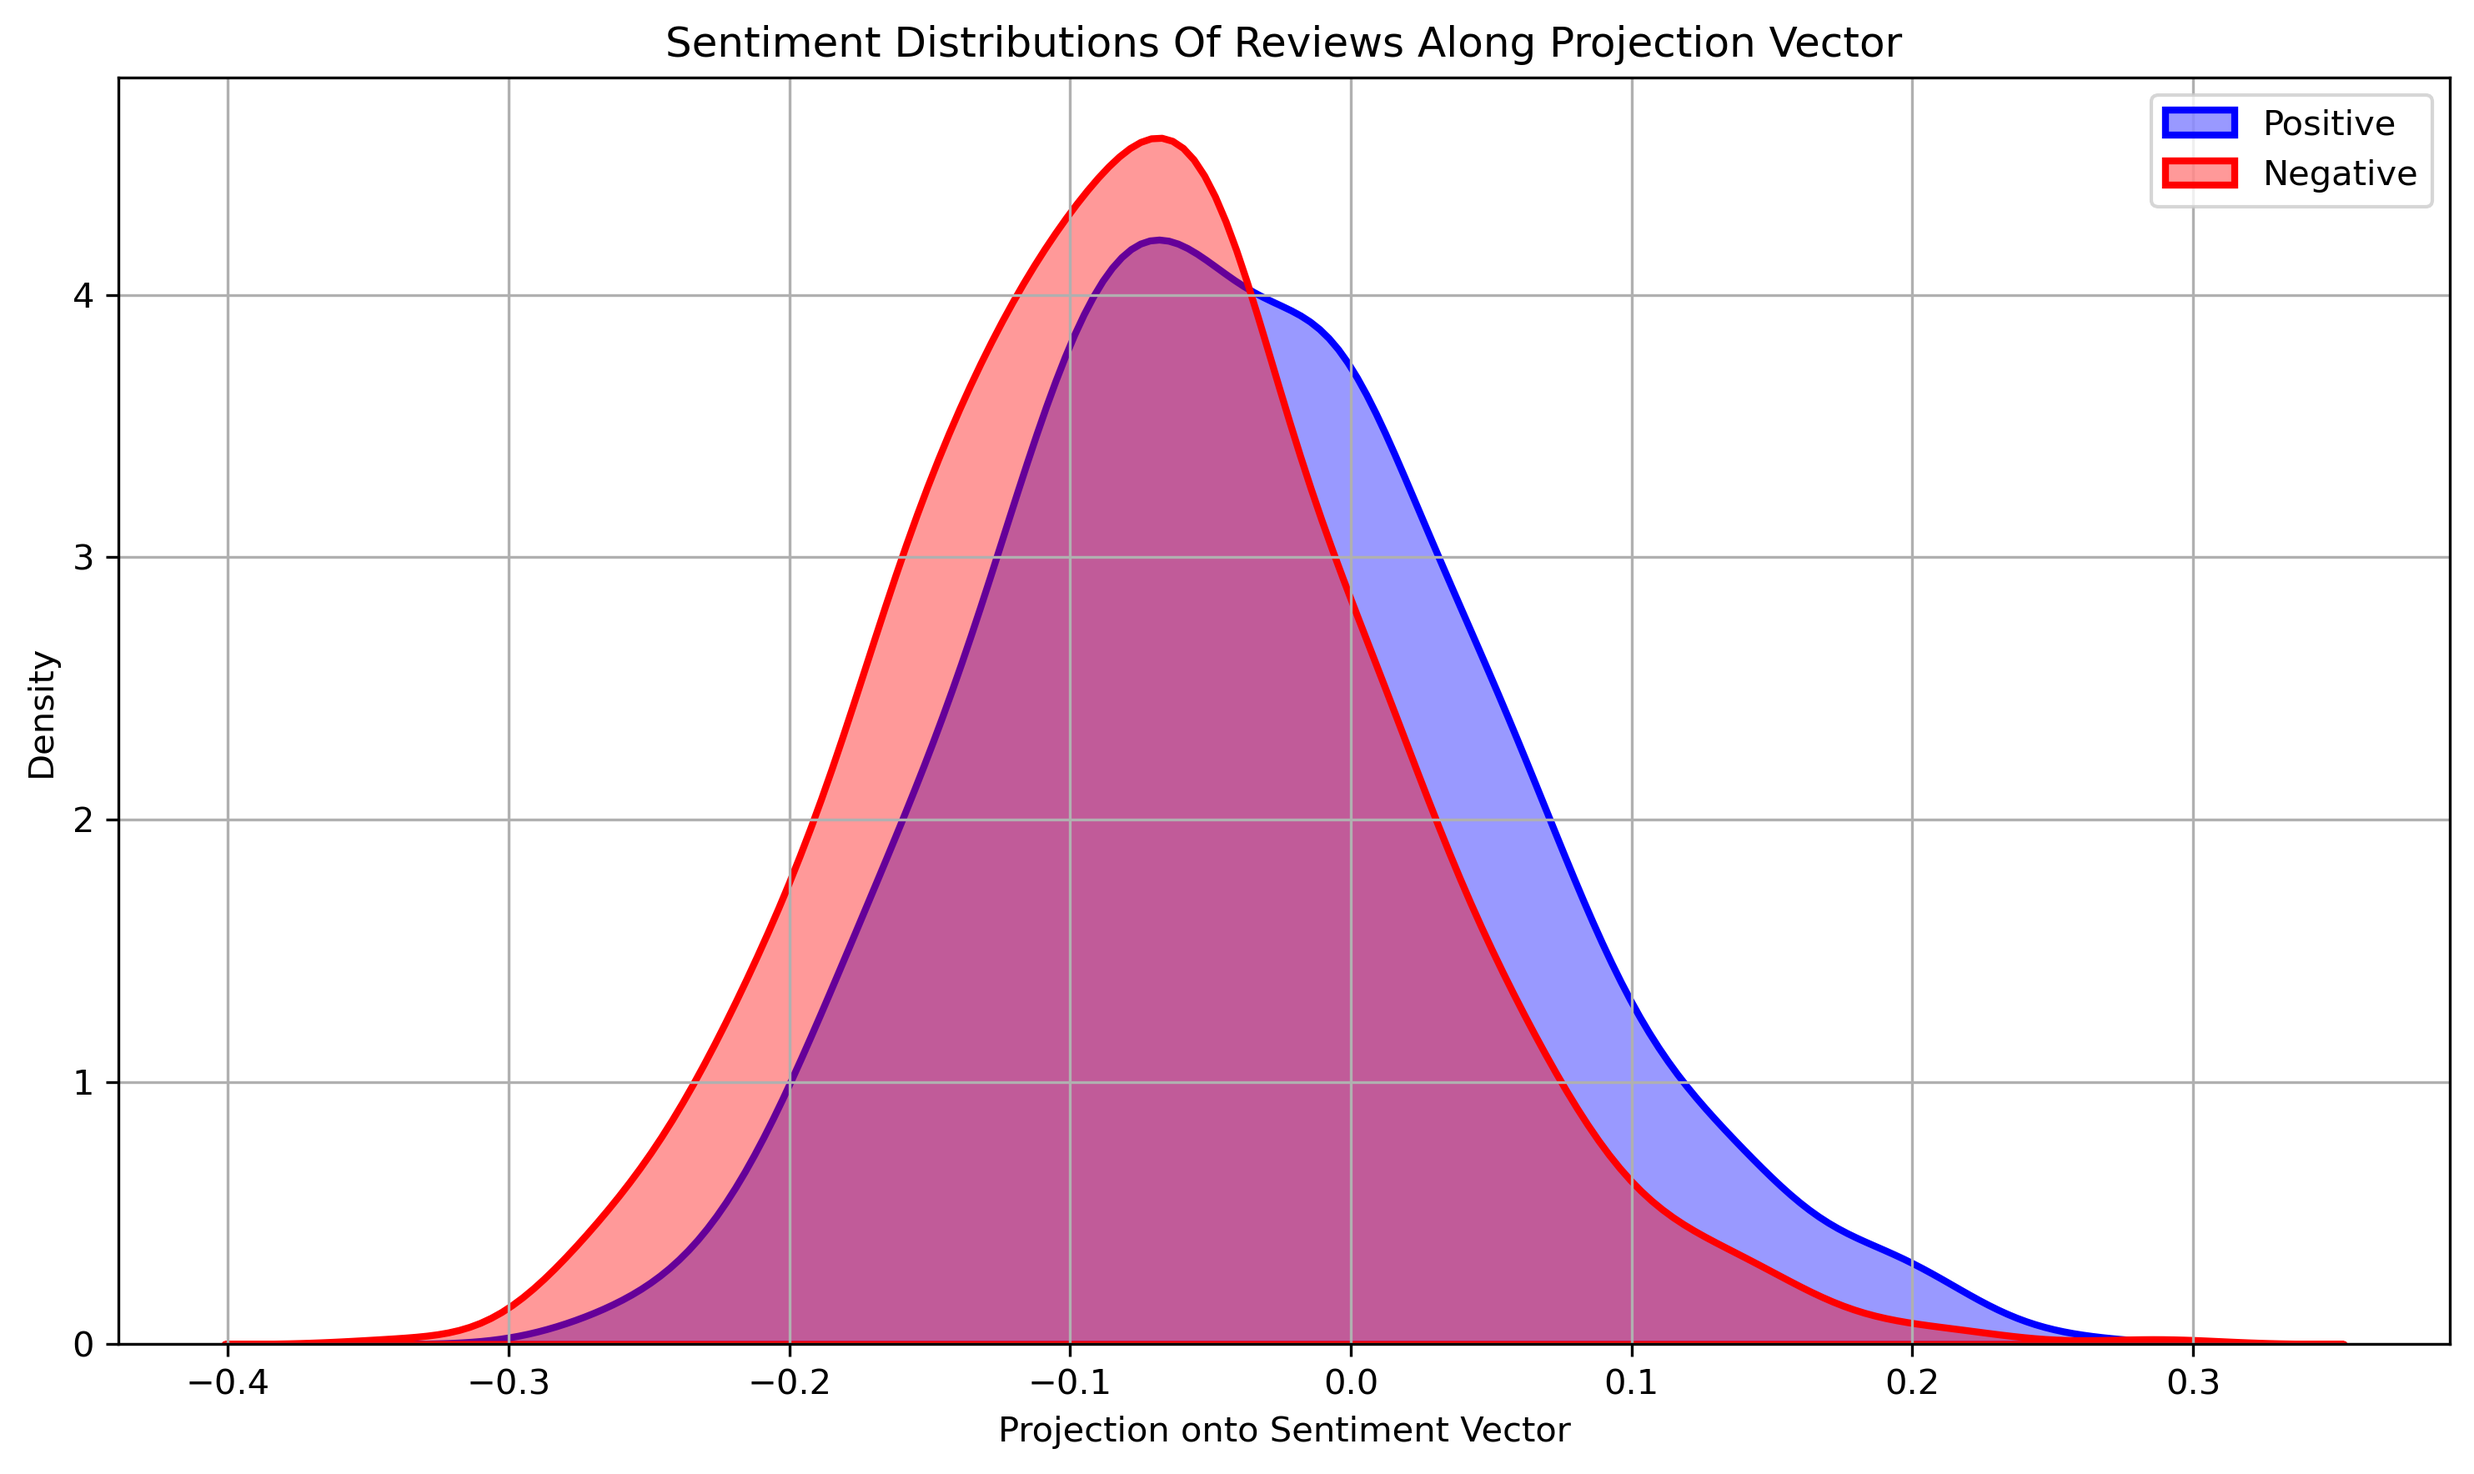
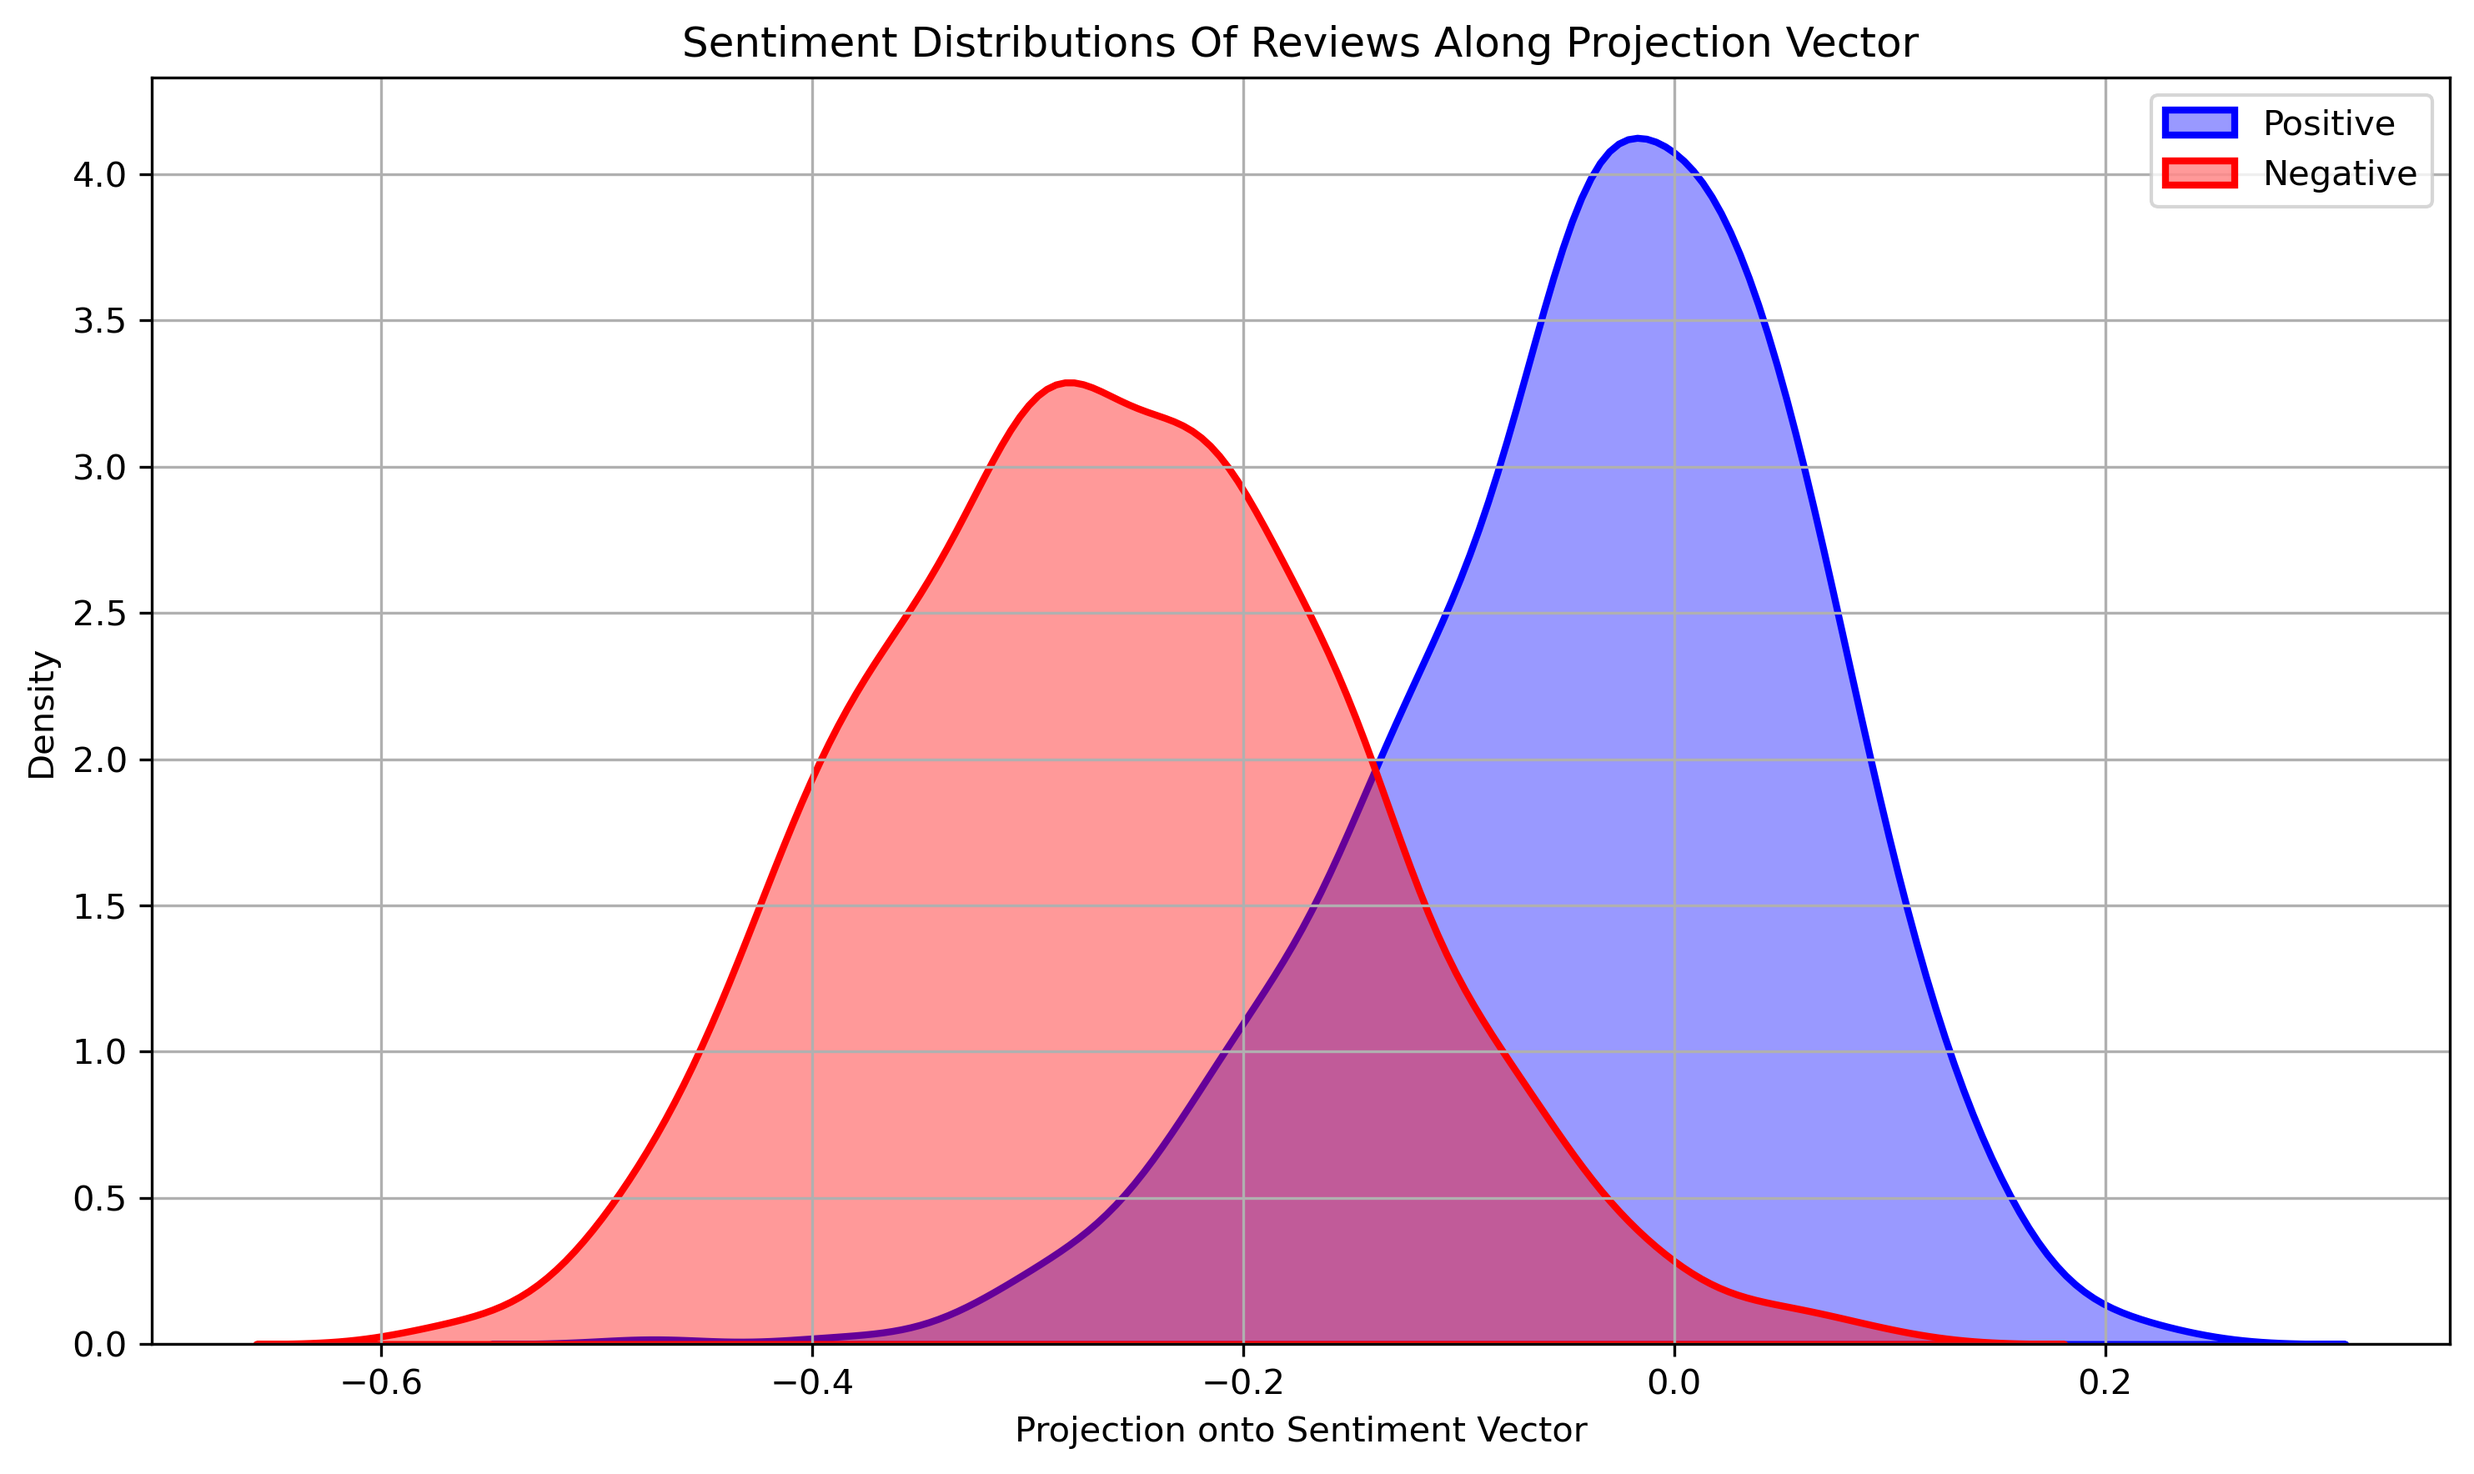
fixed index problem
Had used wrong indexing when matching embeddings with label, resulting in the method breaking.

diff --git a/scripts/main.py b/scripts/main.py
@@ -7,22 +7,35 @@ from functions import *
 IMDb_df = pd.read_csv('../data/raw/imdb.csv')
 print(IMDb_df['review'] [1:5])
 from functions import clean_string
-IMDb_df['review'] = IMDb_df['review'].apply(clean_string)
-subset_corpus= IMDb_df['review'].tolist()
+# Slice the DataFrame first:
+subset_df  = IMDb_df.iloc[1:2000].reset_index(drop=True)
+
+# Clean the reviews:
+subset_df['review'] = subset_df ['review'].apply(clean_string)
+subset_corpus= subset_df['review'].tolist()
 
 
 # %%
-# Load best basic model for sentence embedding:
+# Load the SentenceTransformer model:
 MPNET_Model = SentenceTransformer('sentence-transformers/all-mpnet-base-v2', device="cuda" if torch.cuda.is_available() else "cpu")
-# Encode the first 500 reviews (for proof of concept):
-MPNET_Embedding = MPNET_Model.encode(subset_corpus[1:2000], show_progress_bar=True, device="cuda" if torch.cuda.is_available() else "cpu")
+# Encode reviews:
+MPNET_Embedding = MPNET_Model.encode(subset_corpus, show_progress_bar=True, device="cuda" if torch.cuda.is_available() else "cpu")
 
 # %%
-# Save embeddings to a file:
-embedding = pd.DataFrame(MPNET_Embedding) # Pandas dataframe of embeddings
-embedding['sentiment'] = IMDb_df['sentiment'][1:2000]  # Add sentiment column to the dataframe
-embedding['review'] = subset_corpus[1:2000]  # Add review column to the dataframe
-embedding.to_csv(f'../data/embeddings/MPNET_Embeddings.csv', index = False)
+# Save embeddings as a CSV:
+embedding = pd.DataFrame(MPNET_Embedding)
+embedding['sentiment'] = subset_df['sentiment']
+embedding['review'] = subset_df['review']
+embedding.to_csv('../data/embeddings/MPNET_Embeddings.csv', index=False)
+
+
+# %%
+# Load the embeddings from the file:
+embedding = pd.read_csv('../data/embeddings/MPNET_Embeddings.csv')
+# Check the first 5 rows and columns of the dataframe:
+embedding.iloc[-5:-1] # Check the first 5 rows of the dataframe
+
+
 
 # %%
 # Filter pandas dataframe for positive and negative sentiment:
@@ -33,55 +46,9 @@ print(positive.shape)
 print(negative.shape)
 
 # %%
-# from functions import positive_to_negative_vector, express_matrix_by_vector
-def positive_to_negative_vector(Positive, Negative):
-    """
-    Takes a positive and an negative data point and defines the vector spanning both vectors.
-    """
-    posneg_vector = Positive.mean().to_frame().T-Negative.mean().to_frame().T
-    posneg_vector = pd.DataFrame(posneg_vector)
-    return posneg_vector
+from functions import positive_to_negative_vector, express_matrix_by_vector
 
-def project_matrix_to_vector(matrix, vector):
-    """Compute the projection of a matrix onto the space spanned by the vector
-    Args:
-        vector: ndarray of dimension (D, 1), the vector spanning D dimensions that you want to project upon.
-        matrix: ndarray of dimension (D, M), the matrix consisting of M vectors that you want to map to the subspace spanned by the vector.
-    
-    Returns:
-        p: projection of matrix onto the subspac spanned by the columns of vector; size (D, 1)
-    """
-    m = matrix.to_numpy() # Turn into a matrix
-    v = vector.to_numpy()[0] #Turn into a numpy array
-
-    # Compute v dot v (denominator)
-    v_dot_v = np.dot(v, v)
-
-    # Compute projection of each row of m onto v
-    projection = np.outer(np.dot(m, v) / v_dot_v, v)
-    projection = pd.DataFrame(projection)
-
-    return projection
-
-
-def express_matrix_by_vector(matrix, vector):
-    """Compute the projection of a matrix onto the space spanned by the vector
-    Args:
-        vector: ndarray of dimension (D, 1), the vector spanning D dimensions that you want to project upon.
-        matrix: ndarray of dimension (D, M), the matrix consisting of M vectors that you want to map to the subspace spanned by the vector.
-    
-    Returns:
-        projection: projection of matrix onto the subspac spanned by the columns of vector; size (D, 1)
-        projection_in_1D_subspace: Each embedding projected onto 1 dimensional subspace spanned by input vector.
-    """
-    unit_vector = vector / np.linalg.norm(vector) # Find the unit vector for interpretatbility by dividing with its norm
-    projection = project_matrix_to_vector(matrix, vector) # Find projections, so we can find lengths by finding relations in first dimension
-    projection_in_1D_subspace = projection.iloc[:,0]/unit_vector.iloc[:,0][0] # Location in subspace
-
-    return projection, projection_in_1D_subspace
-
-
-# %%
+# Define the sentiment vector by subtracting the mean of the negative from the mean of the positive:
 sentiment_vector = positive_to_negative_vector(positive.iloc[:, :-2], negative.iloc[:, :-2])
 projection, projection_in_1D_subspace = express_matrix_by_vector(embedding.iloc[:, :-2], sentiment_vector)
 
@@ -136,24 +103,7 @@ plt.show()
 
 
 # %%
-#from functions import get_clean_words
-def get_clean_words(raw_string):
-    """
-    Takes in a raw_string and returns the set of words appearing in the string.
-    """
-    import re
-    try:
-        clean_text = str(raw_string)  # Convert to string
-        clean_text = re.sub(r'<br/><br/>', ' ', clean_text)  # Remove breaks
-        clean_text = re.sub(r'/', ' ', clean_text)  # Replace forward slashes with space
-        clean_text = re.sub(r'[^a-zA-Z0-9 ]', '', clean_text).lower()  # Remove special characters and lowercase
-        words = clean_text.split()  # Split the text into words
-        unique_words = set(words)  # Get unique words
-        return unique_words
-    except Exception as e:
-        print(f"Error processing input: {raw_string}. Error: {e}")
-        return set()  # Return an empty set in case of failure
-
+from functions import get_clean_words
 # Get the most common words in the positive and negative reviews:
 mapped_set = map(get_clean_words, embedding['review'])
 my_set = set().union(*mapped_set)

diff --git a/README.md b/README.md
@@ -4,21 +4,15 @@ WIP, name is temporary
 A project developing a potential technique for extracting information from contextual sentence embeddings (sBERT) 
 
 
-### It seems that the projection might have a hard time seperating sentiment from ?(Reviewness)
+### The projection seems to work decently:
 ![Projection of Reviews onto Sentiment Vector](./img/sentiment_distributions.png)
 
 
 
-Word projections tell the same story:
 Words corresponding to the 10 smallest embeddings:
-['rocky', 'bop', 'movies', 'tango', '##dance', '##hips', 'musicals', 'dances', 'carmen', 'comedies']
+['worse', 'terrible', 'sucked', 'horrible', 'worst', 'bad', 'rotten', 'unacceptable', 'stupidity', 'awful']
 Words corresponding to the 10 largest embeddings:
-['nazi', 'forge', 'covert', 'obscured', 'civilian', 'cockpit', 'wartime', 'pilot', 'sniper', 'darkly']
+['pleasure', 'anytime', 'admired', 'admire', 'fabulous', 'classical', 'beloved', 'romantic', 'anthologies', 'lovely']
 
 
-
-**Current hypothesis:**
-
-The seperation became worse as I went from a subset of 500 --> 2000 movies.
-I just chose the first 2000 movies. It might be they are ordered? I will to use a sample package for subset next.
 
